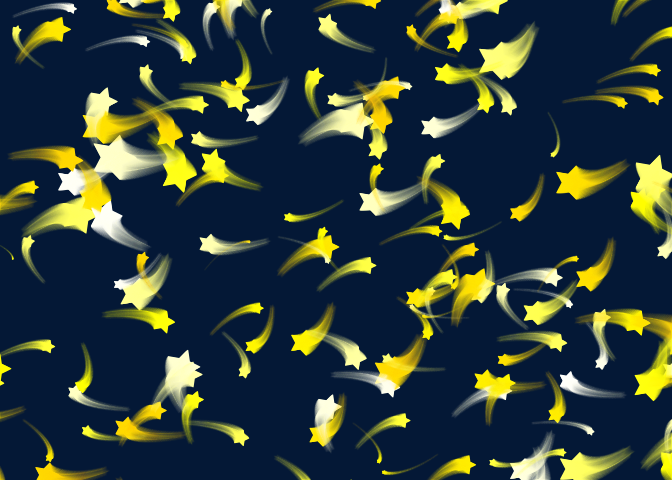
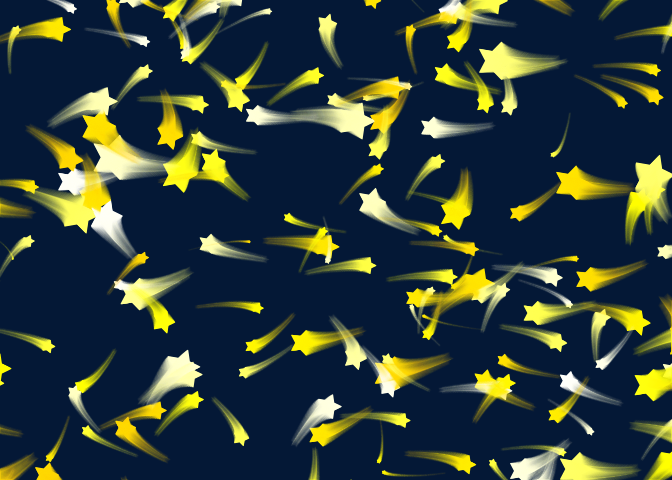
Initial commit

diff --git a/README.md b/README.md
@@ -3,7 +3,7 @@
 twinkle
 =======
 
-Motivated by [@ikashnitsky](https://twitter.com/ikashnitsky) who [shared the snowflakes](https://twitter.com/ikashnitsky/status/937786580231696384) that he made for his 3yo daughter, I created this R package that does somethign similar with one of Mateo's, my 2yo, favorite things, stars :).
+Motivated by [@ikashnitsky](https://twitter.com/ikashnitsky), who [shared the snowflakes](https://twitter.com/ikashnitsky/status/937786580231696384) he made for his 3yo daughter, I created this R package that does something similar with one of Mateo's, my 2yo, favorite things, stars :).
 
 Example
 -------
@@ -30,7 +30,24 @@ twinkle(tail = 1)
 If You want to get more *curvy* tails, just change the `deg_to` option
 
 ``` r
+set.seed(1)
 twinkle(deg_to = pi, deg_from = 0)
 ```
 
 <img src="man/figures/README-deg-1.png" width="100%" />
+
+You can also play with the colors
+
+``` r
+set.seed(1)
+twinkle(
+  tail = 300,
+  col_decay_rate = 5,
+  deg_to   = pi/2,
+  deg_from = -pi,
+  bg   = blues9[6],
+  cols = c("lightyellow", "steelblue", "lightblue")
+  )
+```
+
+<img src="man/figures/README-col-1.png" width="100%" />
